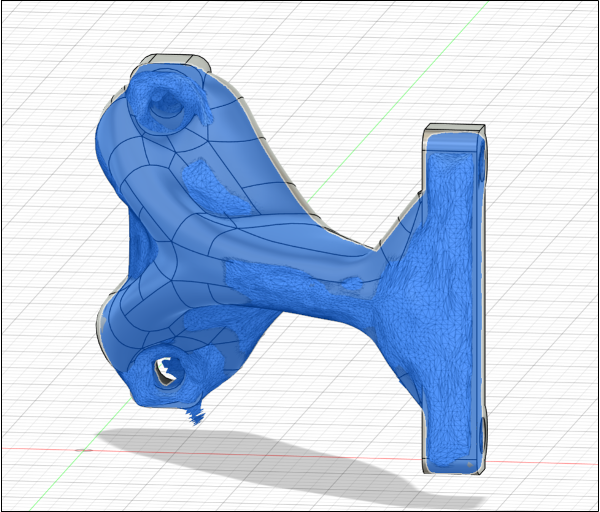
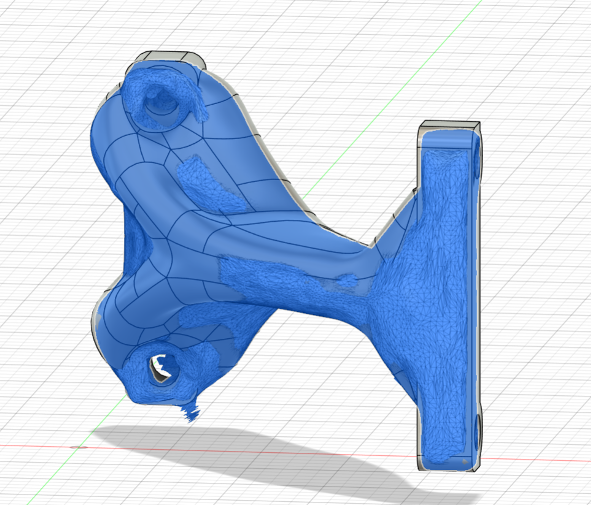
final tweaks

diff --git a/index.html b/index.html
@@ -70,6 +70,12 @@
   * { box-sizing: border-box; -webkit-tap-highlight-color: transparent; }
   html { scroll-behavior: smooth; }
 
+  /* Light border on every image by default. More specific rules
+   (like .avatar-photo's blue border) override this automatically. */
+  img {
+    border: 1px solid rgba(0, 0, 0, 0.8);
+  }
+
   /* Only show a focus ring for keyboard navigation (Tab key),
      not after a mouse click or a touch tap — this is what was
      making Resume/Contact look "stuck" after clicking. */
@@ -588,7 +594,7 @@
         <img class="card-photo" src="images/sampe_award.jpeg" alt="">
       
         <ul>
-          <li>Designed lightweight composite I-beam layup schedules in carbon fiber and fiberglass to bear load</li>
+          <li>Designed lightweight composite I-beam layup schedules for carbon fiber and fiberglass to bear loads upwards of 5600 lbf</li>
           <li>Fabricated beams from 0°/±45°/90° prepreg fiber and 3-point-bend tested them on an Ametek 100 kN UTM</li>
           <li>Placed 1st (Fiberglass I-Beam), 1st (Poster Overall), 2nd (Carbon Fiber I-Beam), and 2nd (Open Design) at SAMPE 2026</li>
         </ul>
@@ -617,6 +623,60 @@
         <a class="read-link" href="https://ceng.calpoly.edu/news/cal-poly-team-makes-return-to-asme-e-human-powered-vehicles-challenge-after-five-year-hiatus" target="_blank" rel="noopener">Read more →</a>
         <br><br>
         <div class="tags"><span class="tag">CAD</span><span class="tag">Composites</span></div>
+      </article>
+
+      <article class="card">
+        <div class="card-top">
+          <div>
+            <h3>Design for Repairability Senior Project</h3>
+            <div class="org">Cal Poly Mechanical Engineering Department</div>
+          </div>
+          <div class="dates">SEP 2025 – JUN 2026</div>
+        </div>
+        <img class="card-photo" src="images/senior_project.jpeg" alt="">
+        <ul>
+          <li>Designed and 3D printed a modified hair dryer casing illustrating repairability principles</li>
+          <li>Collaborated with iFixit to evaluate ease of appliance repair</li>
+          <li>Created demo tools used for course curriculum in ME 4470: Designing Products for Repairability</li>
+        </ul>
+        <a class="read-link" href="https://digitalcommons.calpoly.edu/mesp/870" target="_blank" rel="noopener">Read more →</a>
+        <br><br>
+        <div class="tags"><span class="tag">CAD</span><span class="tag">Mechanical Design</span><span class="tag">3D Printing</span></div>
+      </article>
+
+      <article class="card">
+        <div class="card-top">
+          <div>
+            <h3>IME 432 Course Project</h3>
+            <div class="org">Cal Poly Industrial and Manufacturing Engineering Department</div>
+          </div>
+          <div class="dates">MAR 2026 – JUN 2026</div>
+        </div>
+        <img class="card-photo" src="images/additive_bracket.png" alt="">
+        <ul>
+          <li>Designed a lightweight load-bearing bracket in Fusion 360 using topology optimization techniques</li>
+          <li>Manufactured bracket from stainless steel with SLM printer, post-processed with wire EDM</li>
+          <li>Analyzed part tolerances with Keyence 3D CMM, performed destructive testing to verify specifications</li>
+        </ul>
+        <div class="tags"><span class="tag">Additive Manufacturing</span><span class="tag">3D Metrology</span></div>
+      </article>
+
+      <article class="card">
+        <div class="card-top">
+          <div>
+            <h3>ME 423 Course Project</h3>
+            <div class="org">Cal Poly Mechanical Engineering Department</div>
+          </div>
+          <div class="dates">JAN 2026 – MAR 2026</div>
+        </div>
+        <img class="card-photo" src="images/quanser.jpeg" alt="">
+        <ul>
+          <li>Wrote Python and MATLAB scripts to control Quanser QArm robotic arm</li>
+          <li>Estimated real-time projectile trajectory using depth-enabled camera and ArUco markers</li>
+          <li>3D printed netted end effector to dampen projectile bounceback</li>
+          <li>Implemented successful vision-guided ball catching from various initial conditions</li>
+        </ul>
+        <div class="tags"><span class="tag">Robotics</span><span class="tag">MATLAB</span><span class="tag">Simulink</span></div>
       </article>
 
     </div>
